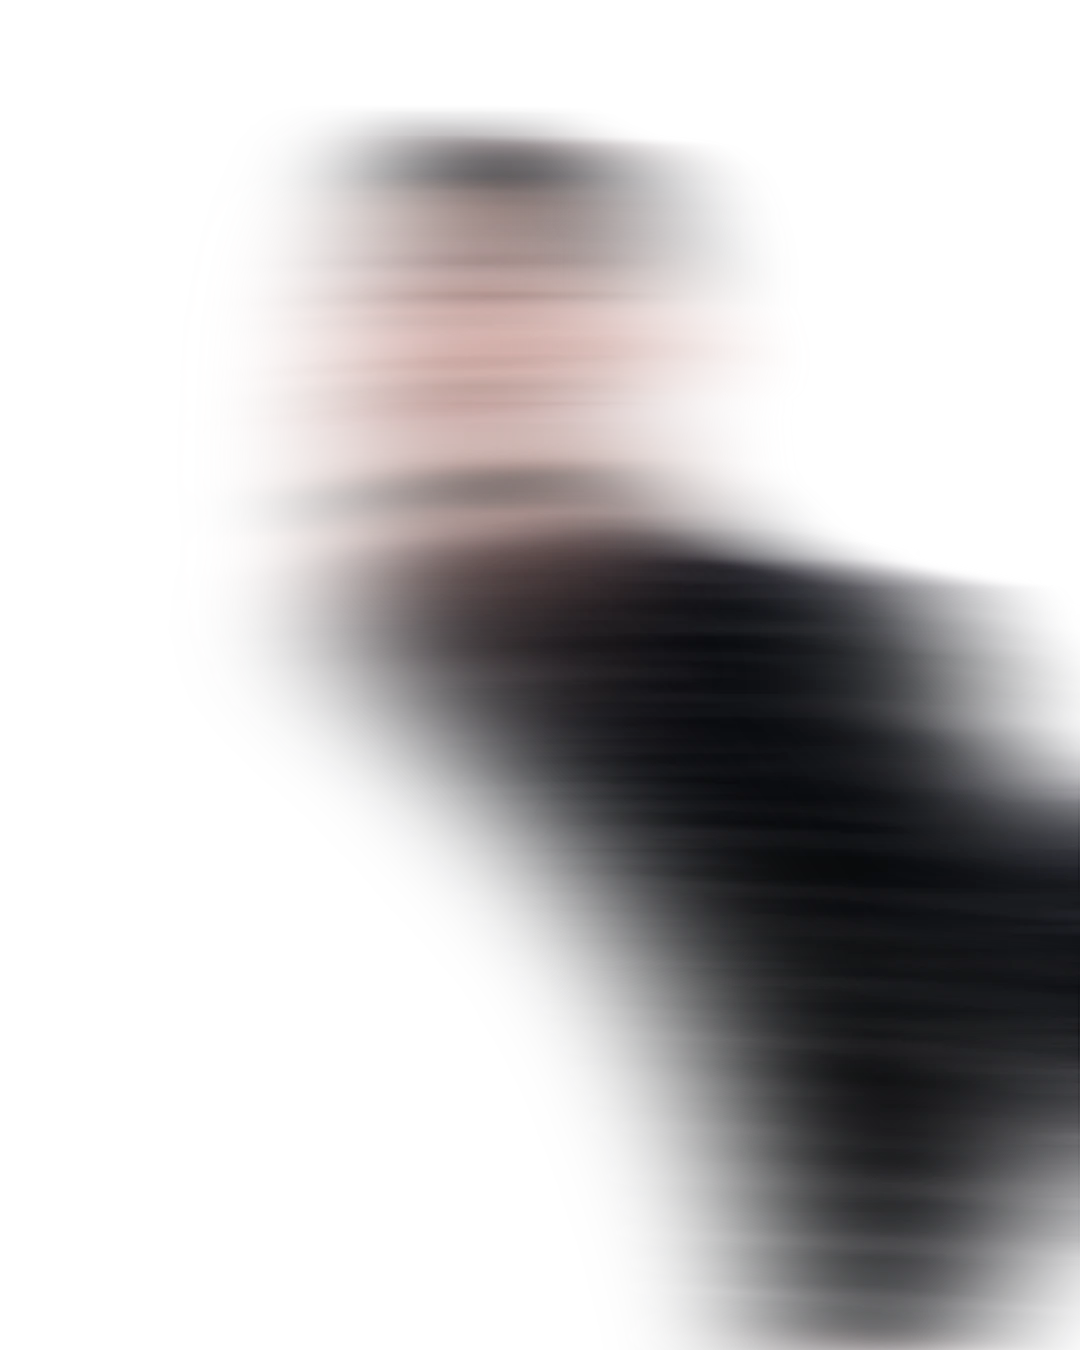
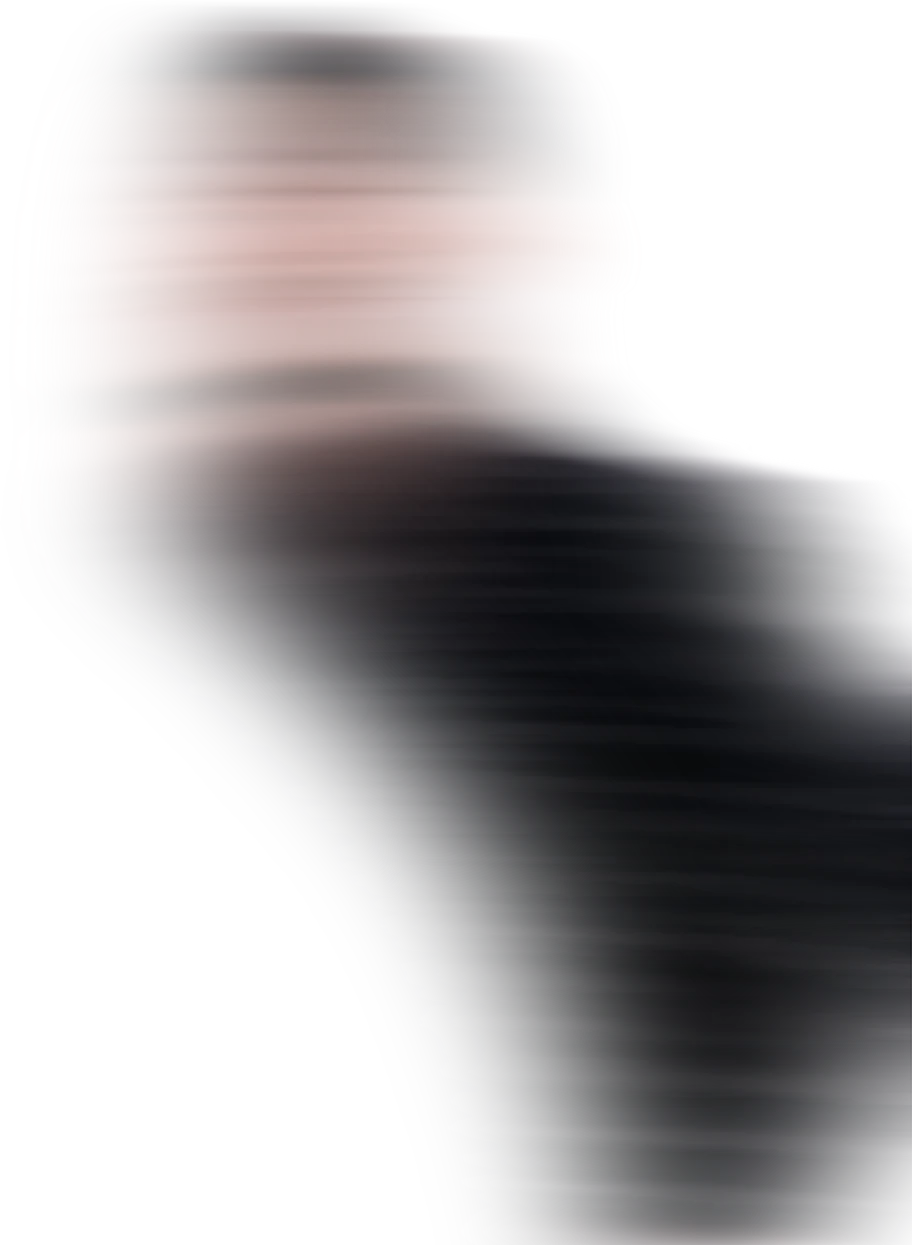
Fix Hero shadow being invisible on mobile/tablet
The shadow asset had ~16-24% of dead transparent margin baked in, and on
narrow viewports the sharp photo already fills almost the full width,
leaving no real room beside it -- between the two, the shadow rendered
but was effectively invisible below desktop widths.

- Crop the shadow image tight to its actual content.
- Shift the sharp photo (and its glow) right on narrow viewports instead
  of shrinking it, to open up real clearance on the left.
- Anchor the shadow from the top so its lighter face/neck end lines up
  with the artist's head instead of sinking into the dark area near the
  bottom of Hero, where its own dark half would disappear regardless.

diff --git a/assets/css/style.css b/assets/css/style.css
@@ -411,12 +411,6 @@ summary:focus-visible {
   mix-blend-mode: screen;
 }
 
-@media (min-width: 768px) {
-  .hero-photo--glow {
-    height: 68%;
-  }
-}
-
 /* Wraps the sharp photo so .hero-photo-shade can tint it with a gradient
    without affecting the blurred glow duplicate or the shadow image. */
 .hero-photo-wrap {
@@ -428,7 +422,19 @@ summary:focus-visible {
   z-index: 1;
 }
 
+/* Below this, the sharp photo alone (at full requested size) leaves almost
+   no horizontal clearance beside it — nowhere for the shadow image to
+   actually show. Shift the photo (and its glow) right instead of shrinking
+   it, opening up real room on the left for the shadow. */
+@media (max-width: 767px) {
+  .hero-photo--glow,
+  .hero-photo-wrap {
+    left: 62%;
+  }
+}
+
 @media (min-width: 768px) {
+  .hero-photo--glow,
   .hero-photo-wrap {
     height: 68%;
   }
@@ -450,23 +456,28 @@ summary:focus-visible {
 }
 
 /* User-provided blurred silhouette placed beside the sharp photo — an
-   ambient echo/shadow, distinct from the centered glow duplicate above. */
+   ambient echo/shadow, distinct from the centered glow duplicate above.
+   Cropped tight to its own content (no dead transparent margin) so the
+   sizing below maps directly to visible pixels. Anchored from the top so
+   its lighter (face/neck) end lines up with the artist's head instead of
+   sinking into the already-dark area near the bottom of Hero, where its
+   own dark half would disappear against the background. */
 .hero-photo-shadow {
   position: absolute;
-  bottom: 3%;
-  left: 4%;
-  width: 46%;
-  max-width: 360px;
+  top: 30%;
+  left: 1%;
+  width: 34%;
+  max-width: 260px;
   height: auto;
   z-index: 0;
   opacity: 0.85;
   pointer-events: none;
 }
 
-@media (max-width: 479px) {
+@media (min-width: 768px) {
   .hero-photo-shadow {
-    width: 38%;
-    left: 0;
+    left: 4%;
+    width: 30%;
   }
 }
 

diff --git a/index.html b/index.html
@@ -96,7 +96,7 @@
     <div class="hero-media" aria-hidden="true">
       <div class="hero-media-glow"></div>
       <img src="assets/img/hero-artist.webp" alt="" class="hero-photo hero-photo--glow" width="813" height="1329">
-      <img src="assets/img/hero-artist-shadow.webp" alt="" class="hero-photo-shadow" width="1080" height="1350">
+      <img src="assets/img/hero-artist-shadow.webp" alt="" class="hero-photo-shadow" width="912" height="1245">
       <div class="hero-photo-wrap">
         <img src="assets/img/hero-artist.webp" alt="" class="hero-photo" width="813" height="1329">
         <div class="hero-photo-shade"></div>
